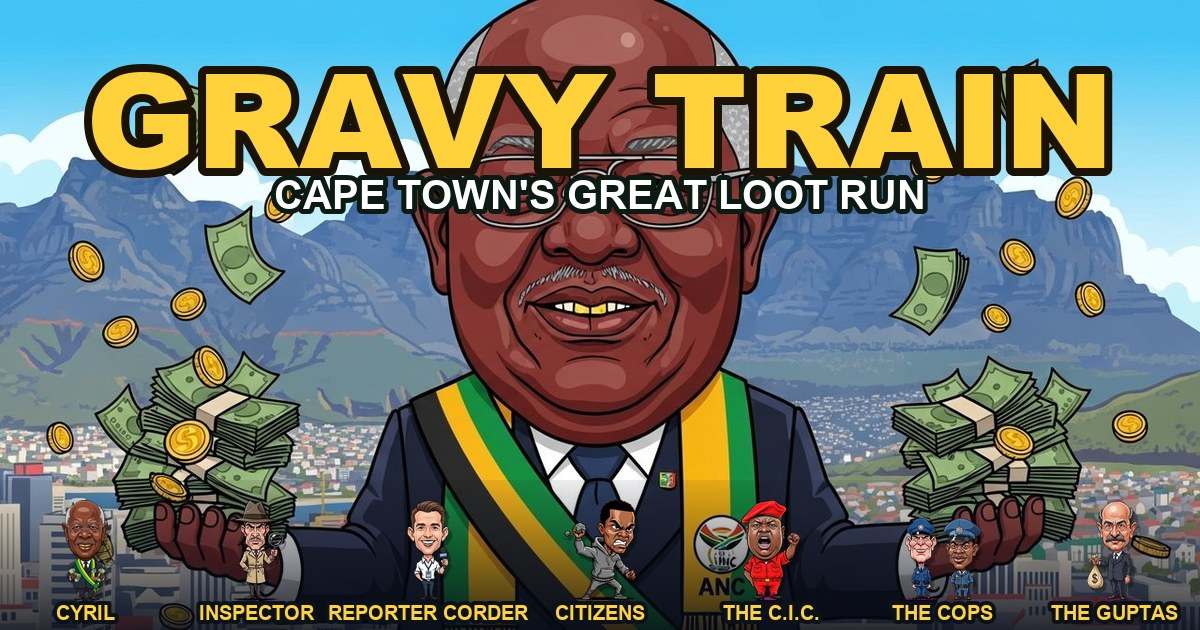
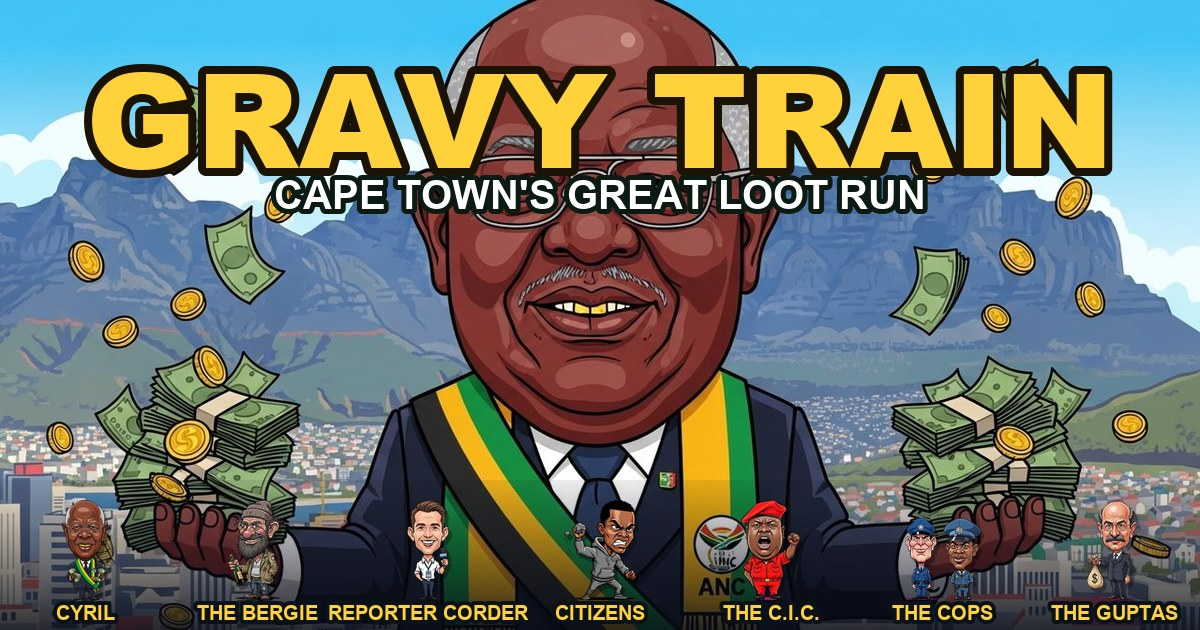
Long St bergie character (swipes loot, bolts when hit), longer immunity, inspector removed
- New THE BERGIE on Long Street: a homeless guy with a wine bottle; touch him
  and he swipes some loot then bolts off-screen; hit/stomp him and he just
  flees (no kill). Slightly smaller than other characters.
- Removed the Inspector (gameplay patrollers now Reporter Corder; roster +
  poster swap Inspector -> The Bergie).
- Dubai immunity power-up now lasts 7.5s (was 3.5s), +4s as requested.

Changed region(s): [[0.1542, 0.7841, 0.2775, 0.9952]]

diff --git a/index.html b/index.html
@@ -115,7 +115,7 @@
       </div>
       <div class="roster">
         <div><img src="assets/spr/prez.png"><span>CYRIL<small>you</small></span></div>
-        <div><img src="assets/spr/inspector.png"><span>INSPECTOR<small>the watchdog</small></span></div>
+        <div><img src="assets/spr/bergie.png"><span>THE BERGIE<small>swipes your loot</small></span></div>
         <div><img src="assets/spr/enemy.png"><span>REPORTER CORDER<small>breaks the story</small></span></div>
         <div><img src="assets/spr/protester.png"><span>CITIZENS<small>stone throwers</small></span></div>
         <div><img src="assets/spr/eff.png"><span>THE C.I.C.<small>red berets</small></span></div>
@@ -141,7 +141,7 @@
   var PLATE=[], PLATEKEYS=['city','muizenberg','seapoint','township','n1','parliament','mansion'];
   PLATEKEYS.forEach(function(k,i){var im=new Image();im.src='assets/bg/'+k+'.jpg';PLATE[i]=im;});
   // AI-generated character sprites (transparent PNGs). Procedural figures stay as fallback.
-  var SPR={};['prez','enemy','inspector','cop','cop2','police_car','boss','protester','taxi','key','eff','couch'].forEach(function(k){var im=new Image();im.src='assets/spr/'+k+'.png';SPR[k]=im;});
+  var SPR={};['prez','enemy','inspector','cop','cop2','police_car','boss','protester','taxi','key','eff','couch','bergie'].forEach(function(k){var im=new Image();im.src='assets/spr/'+k+'.png';SPR[k]=im;});
   // ===================== AUDIO (Web Audio, self-contained — no files) =====================
   var AUD=(function(){
     var ac=null,muted=false,musicOn=false,mi=0;
@@ -247,7 +247,8 @@
     jets.push({c:49,r:2,kind:'out',tx:60*TILE,ty:gtop(60)*TILE-19});// return jet UP on the exit ledge → jump on it to leave
     hearts.push({c:48,r:4});  // the ONE +1 life in the whole game — sits on the Dubai vault floor, reachable ONLY via the Gupta-jet warp
     for(var k=6;k<214;k+=4){if(gtop(k)!=null&&gtop(k+1)!=null)coins.push({c:k,r:gtop(k)-2});}
-    for(var e=18,ei=0;e<170;e+=14,ei++){if(gtop(e)!=null&&gtop(e-1)!=null&&gtop(e+1)!=null)enemies.push({c:e,r:gtop(e)-1,kind:ei%2?'mrc':'inspector'});}
+    for(var e=18,ei=0;e<170;e+=14,ei++){if(gtop(e)!=null&&gtop(e-1)!=null&&gtop(e+1)!=null)enemies.push({c:e,r:gtop(e)-1,kind:'mrc'});}
+    [12,34].forEach(function(c){if(gtop(c)!=null)enemies.push({c:c,r:gtop(c)-1,kind:'bergie'});}); // Long St: a bergie who swipes your loot then bolts
     function sgn(c,txt){if(gtop(c)==null)return;props.push({type:'sign',x:c*TILE,y:gtop(c)*TILE,t:txt});}
     function prop(c,type){if(gtop(c)==null)return;props.push({type:type,x:c*TILE,y:gtop(c)*TILE});}
     function haz(c,type){if(gtop(c)==null)return;hazards.push({type:type,x:c*TILE,y:gtop(c)*TILE,ph:rng()*6});}
@@ -293,7 +294,7 @@
   buildLevel();   // run AFTER all state vars exist so boss/gateCols/depCouch/traffic aren't reset to defaults
   var coinE=coins.map(function(o){return {x:o.c*TILE+3,y:o.r*TILE+2,got:false,ph:Math.random()*6};});
   var heartE=hearts.map(function(o){return {x:o.c*TILE+1,y:o.r*TILE+1,got:false};});
-  var enemyE=enemies.map(function(o){return {x:o.c*TILE,y:o.r*TILE,w:16,h:16,vx:(o.thr||o.still)?0:0.55*(o.c%2?1:-1),alive:true,ph:Math.random()*6,flash:0,thr:o.thr,kind:o.kind,cool:40+((o.c*13)%70)};});
+  var enemyE=enemies.map(function(o){var bg=o.kind==='bergie';return {x:o.c*TILE,y:o.r*TILE+(bg?3:0),w:bg?12:16,h:bg?13:16,vx:(o.thr||o.still)?0:(bg?0.7:0.55)*(o.c%2?1:-1),alive:true,ph:Math.random()*6,flash:0,thr:o.thr,kind:o.kind,fled:false,cool:40+((o.c*13)%70)};});
   var powerE=powerups.map(function(o){return {x:o.c*TILE,y:o.r*TILE,got:false,ph:Math.random()*6};});
   var lastSafe={x:startX*TILE,y:startY*TILE};
   var inL=false,inR=false,inJ=false,inRun=false,jbuf=0,coyote=0,springLock=0;
@@ -398,13 +399,20 @@
     coinE.forEach(function(o){if(o.got)return;o.ph+=0.15;if(o.pop){o.pop--;o.y-=1.4;if(o.pop<=0)o.got=true;return;}if(P.x<o.x+12&&P.x+P.w>o.x&&P.y<o.y+14&&P.y+P.h>o.y){o.got=true;cash+=100;updHUD();AUD.sfx('coin');}});
     heartE.forEach(function(o){if(o.got)return;if(P.x<o.x+16&&P.x+P.w>o.x&&P.y<o.y+16&&P.y+P.h>o.y){o.got=true;if(lives<5){lives++;buildLives();}}});
     // IMMUNITY DEAL power-up → invincible for ~9s
-    powerE.forEach(function(o){if(o.got)return;o.ph+=0.12;if(P.x<o.x+14&&P.x+P.w>o.x&&P.y<o.y+16&&P.y+P.h>o.y){o.got=true;immune=210;AUD.sfx('win');popups.push({x:o.x+7,y:o.y-8,t:'IMMUNITY! 🛡 3.5s',life:100});}});
+    powerE.forEach(function(o){if(o.got)return;o.ph+=0.12;if(P.x<o.x+14&&P.x+P.w>o.x&&P.y<o.y+16&&P.y+P.h>o.y){o.got=true;immune=450;AUD.sfx('win');popups.push({x:o.x+7,y:o.y-8,t:'IMMUNITY! 🛡 7.5s',life:100});}});
     // GUPTA-JET WARP → fly to the Dubai vault / back
     jets.forEach(function(jt){if(warpCool>0)return;var jx=jt.c*TILE,jy=jt.r*TILE;if(P.x+P.w>jx-2&&P.x<jx+TILE+2&&P.y+P.h>jy-6&&P.y<jy+TILE+6){P.x=jt.tx;P.y=jt.ty;P.vx=0;P.vy=0;warpCool=75;AUD.sfx('loot');popups.push({x:jt.tx+8,y:jt.ty-12,t:jt.kind==='in'?'✈ DUBAI VAULT':'BACK TO THE RUN →',life:100});}});
     enemyE.forEach(function(e){if(!e.alive)return;e.ph+=0.2;
       if(e.thr){if(e.cool>0)e.cool--;else if(Math.abs((P.x+P.w/2)-(e.x+e.w/2))<175){var tx=(P.x+P.w/2)-(e.x+e.w/2),ty=P.y-e.y,dd=Math.max(50,Math.sqrt(tx*tx+ty*ty));projectiles.push({x:e.x+e.w/2,y:e.y+2,vx:tx/dd*3.2,vy:ty/dd*3.2-1.0});e.cool=78;}}
+      else if(e.fled){e.x+=e.vx;if(e.x<camX-70||e.x>camX+viewW+70)e.alive=false;}
       else{e.x+=e.vx;var fx=e.vx>0?e.x+e.w:e.x;if(solidAt(fx,e.y+e.h/2)||!solidAt(e.x+e.w/2,e.y+e.h+2)){e.vx=-e.vx;e.x+=e.vx*2;}}
-      if(P.x<e.x+e.w&&P.x+P.w>e.x&&P.y<e.y+e.h&&P.y+P.h>e.y){if(P.vy>1&&P.y+P.h<e.y+e.h*0.7){e.alive=false;P.vy=-6;cash+=250;updHUD();AUD.sfx('stomp');}else if(immune>0){e.alive=false;cash+=250;updHUD();AUD.sfx('stomp');}else if(invuln<=0){hurt('enemy');}}});
+      if(P.x<e.x+e.w&&P.x+P.w>e.x&&P.y<e.y+e.h&&P.y+P.h>e.y){
+        if(e.kind==='bergie'){ if(!e.fled){ var away=(e.x<P.x?-1:1);
+          if((P.vy>1&&P.y+P.h<e.y+e.h*0.7)||immune>0){e.fled=true;e.vx=away*3.4;if(P.vy>1)P.vy=-5;AUD.sfx('stomp');popups.push({x:e.x+e.w/2,y:e.y-6,t:'🍷 VOETSEK!',life:60,big:true,col:'#ffd23b'});}
+          else{var sw=Math.min(cash,300+Math.floor(cash*0.05));cash-=sw;updHUD();e.fled=true;e.vx=away*3.6;invuln=25;AUD.sfx('siren');popups.push({x:e.x+e.w/2,y:e.y-6,t:(sw>0?'-R'+fmt(sw)+' SWIPED!':'SWIPED!'),life:80,big:true,col:'#ff9a3b'});} } }
+        else if(P.vy>1&&P.y+P.h<e.y+e.h*0.7){e.alive=false;P.vy=-6;cash+=250;updHUD();AUD.sfx('stomp');}
+        else if(immune>0){e.alive=false;cash+=250;updHUD();AUD.sfx('stomp');}
+        else if(invuln<=0){hurt('enemy');}}});
     for(var ri=projectiles.length-1;ri>=0;ri--){var pr=projectiles[ri];pr.vy+=0.16;pr.x+=pr.vx;pr.y+=pr.vy; // protester rocks
       if(invuln<=0&&P.x<pr.x+5&&P.x+P.w>pr.x-2&&P.y<pr.y+5&&P.y+P.h>pr.y-2){hurt('rock');projectiles.splice(ri,1);continue;}
       if(pr.y>LH+20||pr.x<camX-60||pr.x>camX+viewW+60)projectiles.splice(ri,1);}
@@ -556,9 +564,9 @@
   }
   // ENEMIES = "THE COMMISSION": the INSPECTOR (watchdog, trench coat) and REPORTER CORDER (mic). Throwers = CITIZENS.
   function drawEnemy(e){
-    var IMG3=e.thr?SPR.protester:(e.kind==='eff'?SPR.eff:e.kind==='inspector'?SPR.inspector:SPR.enemy);
+    var IMG3=e.thr?SPR.protester:(e.kind==='bergie'?SPR.bergie:e.kind==='eff'?SPR.eff:e.kind==='inspector'?SPR.inspector:SPR.enemy);
     if(IMG3&&IMG3.complete&&IMG3.naturalWidth){
-      var dh=24,dw=dh*(IMG3.naturalWidth/IMG3.naturalHeight),cx=e.x+e.w/2,feet=e.y+e.h,bob=Math.abs(Math.sin(e.ph*1.3))*1.1;
+      var dh=e.kind==='bergie'?19:24,dw=dh*(IMG3.naturalWidth/IMG3.naturalHeight),cx=e.x+e.w/2,feet=e.y+e.h,bob=Math.abs(Math.sin(e.ph*1.3))*1.1;
       ctx.fillStyle='rgba(0,0,0,.28)';ctx.beginPath();ctx.ellipse(cx,feet-0.4,6,2,0,0,7);ctx.fill();
       ctx.save();ctx.translate(cx,feet-bob);if(e.vx>0)ctx.scale(-1,1);ctx.drawImage(IMG3,-dw/2,-dh,dw,dh);ctx.restore();
       return;